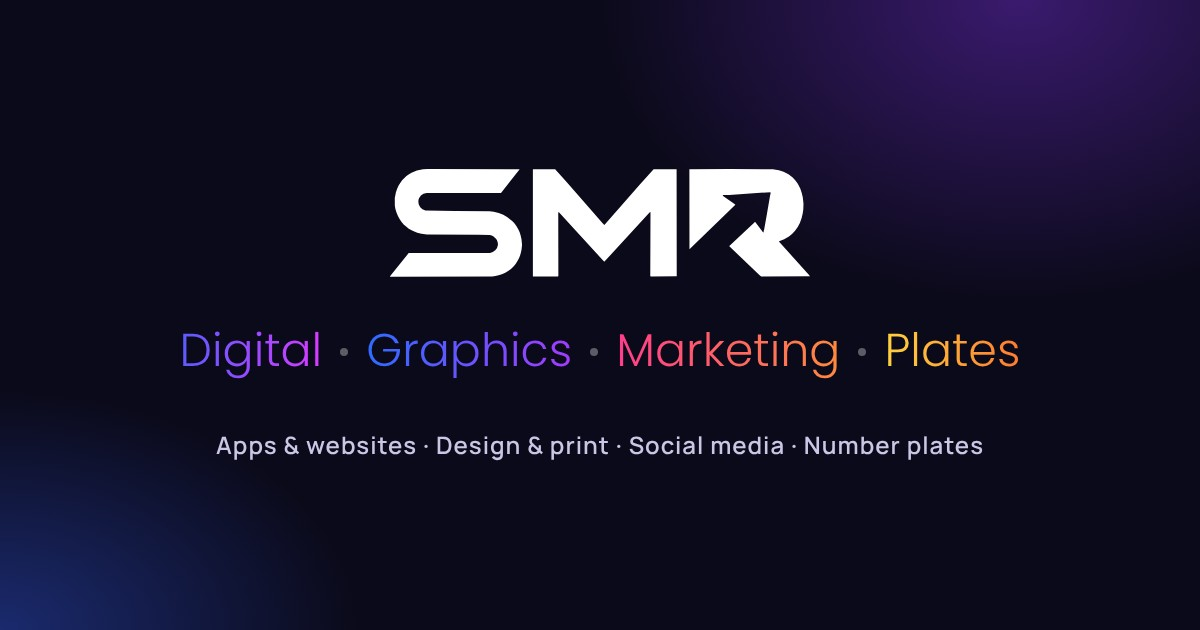
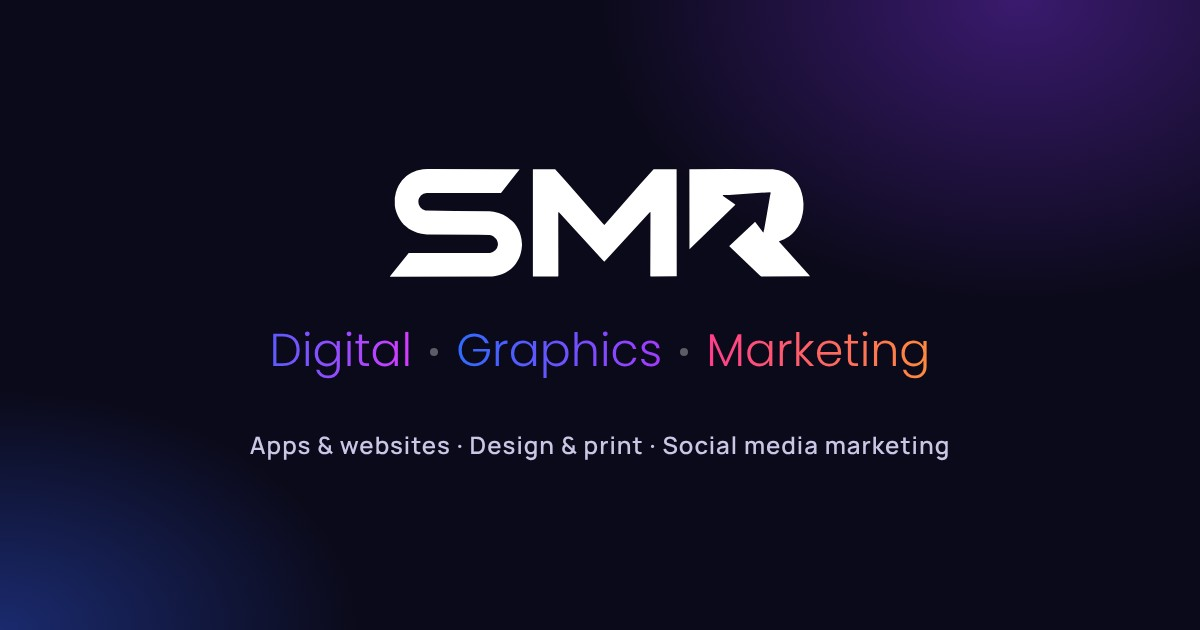
Link preview: drop Plates for now
Claude-Session: https://claude.ai/code/session_01YJ1z4vHF3XLVwcpzAtDnW9

Changed region(s): [[0.1542, 0.5127, 0.8633, 0.6032], [0.185, 0.6937, 0.8325, 0.7238]]

diff --git a/index.html b/index.html
@@ -3,16 +3,16 @@
 <head>
 <meta charset="utf-8">
 <meta name="viewport" content="width=device-width, initial-scale=1, maximum-scale=1, user-scalable=no, viewport-fit=cover">
-<title>SMR · Digital · Graphics · Marketing · Plates</title>
-<meta name="description" content="SMR Digital, SMR Graphics, SMR Marketing and SMR Plates: apps and websites, design and print, social media marketing and number plates. High quality, quick turnaround, great value.">
+<title>SMR · Digital · Graphics · Marketing</title>
+<meta name="description" content="SMR Digital, SMR Graphics and SMR Marketing: apps and websites, design and print, and social media marketing. High quality, quick turnaround, great value.">
 <meta name="theme-color" content="#08080f">
 <link rel="canonical" href="https://smrgraphics.co.uk/">
 <meta property="og:type" content="website">
 <meta property="og:site_name" content="SMR">
-<meta property="og:title" content="SMR · Digital · Graphics · Marketing · Plates">
-<meta property="og:description" content="Apps and websites, design and print, social media marketing and number plates. High quality, quick turnaround, great value.">
+<meta property="og:title" content="SMR · Digital · Graphics · Marketing">
+<meta property="og:description" content="Apps and websites, design and print, and social media marketing. High quality, quick turnaround, great value.">
 <meta property="og:url" content="https://smrgraphics.co.uk/">
-<meta property="og:image" content="https://smrgraphics.co.uk/assets/og-share.jpg?v=2">
+<meta property="og:image" content="https://smrgraphics.co.uk/assets/og-share.jpg?v=3">
 <meta property="og:image:width" content="1200">
 <meta property="og:image:height" content="630">
 <meta name="twitter:card" content="summary_large_image">
